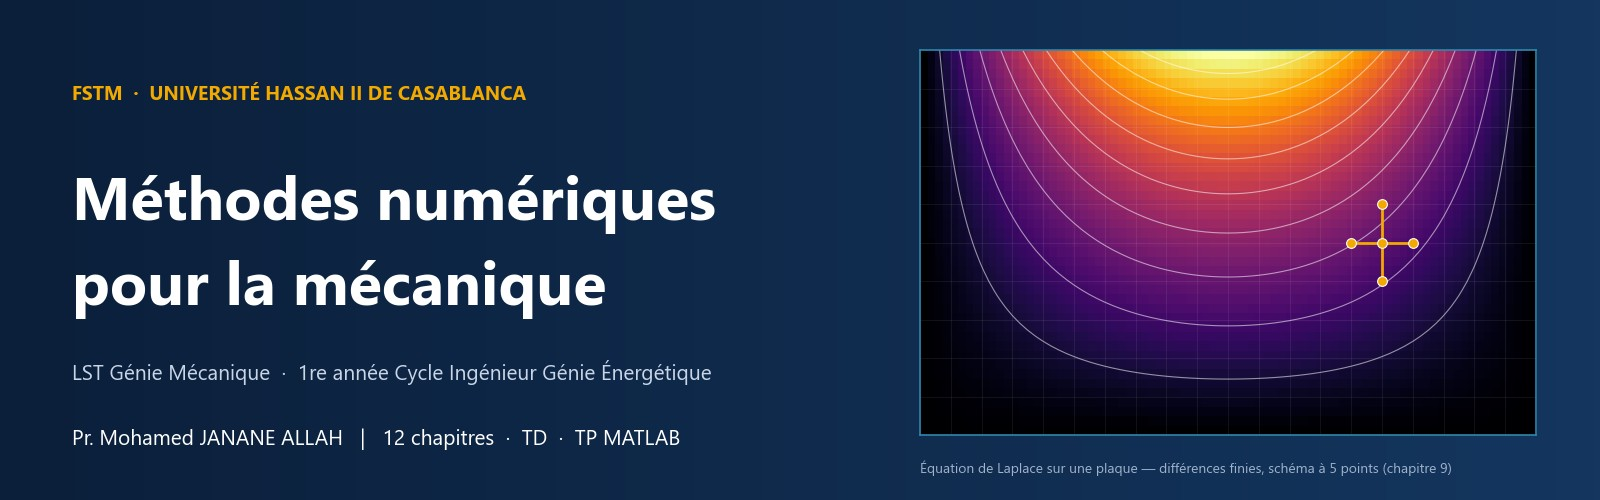
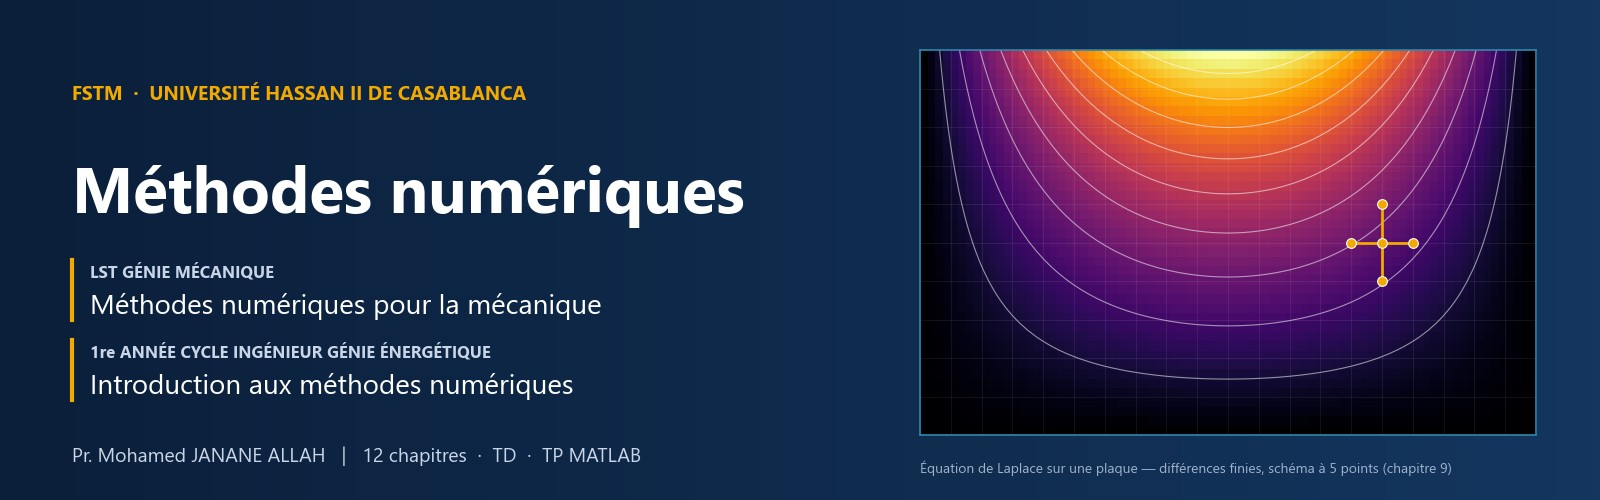
Methodes numeriques : banniere avec les deux intitules (GM et GE)
Titre commun « Methodes numeriques » ; dessous, LST Genie Mecanique :
« Methodes numeriques pour la mecanique » et Cycle d'Ingenieur GE :
« Introduction aux methodes numeriques ». Texte alternatif et fil
d'Ariane mis a jour ; la ligne sous la banniere, redondante, est retiree.

diff --git a/tools/banniere_methodes.py b/tools/banniere_methodes.py
@@ -47,13 +47,16 @@ def banniere():
                 cmap=LinearSegmentedColormap.from_list("fond", [MARINE, MARINE2]))
     fond.axis("off")
 
+    # Titre commun, puis l'intitule du module dans chaque filiere (GM et GE, 16 nov. 2026).
     fig.text(0.045, 0.80, "FSTM  ·  UNIVERSITÉ HASSAN II DE CASABLANCA", color=AMBRE, fontsize=14, fontweight="bold")
-    fig.text(0.045, 0.56, "Méthodes numériques", color="white", fontsize=44, fontweight="bold")
-    fig.text(0.045, 0.39, "pour la mécanique", color="white", fontsize=44, fontweight="bold")
-    fig.text(0.045, 0.24, "LST Génie Mécanique  ·  1re année Cycle Ingénieur Génie Énergétique",
-             color=GRIS, fontsize=15)
-    fig.text(0.045, 0.11, "Pr. Mohamed JANANE ALLAH   |   12 chapitres  ·  TD  ·  TP MATLAB",
-             color="white", fontsize=15)
+    fig.text(0.045, 0.575, "Méthodes numériques", color="white", fontsize=46, fontweight="bold")
+    for yy, filiere, intitule in ((0.445, "LST GÉNIE MÉCANIQUE", "Méthodes numériques pour la mécanique"),
+                                  (0.285, "1re ANNÉE CYCLE INGÉNIEUR GÉNIE ÉNERGÉTIQUE", "Introduction aux méthodes numériques")):
+        fig.add_artist(plt.Line2D([0.045, 0.045], [yy - 0.085, yy + 0.035], color=AMBRE, lw=3, transform=fig.transFigure))
+        fig.text(0.056, yy, filiere, color=GRIS, fontsize=12, fontweight="bold")
+        fig.text(0.056, yy - 0.072, intitule, color="white", fontsize=20)
+    fig.text(0.045, 0.075, "Pr. Mohamed JANANE ALLAH   |   12 chapitres  ·  TD  ·  TP MATLAB",
+             color=GRIS, fontsize=14)
 
     ax = fig.add_axes([0.575, 0.13, 0.385, 0.77])
     ax.imshow(T, origin="lower", extent=[0, 2, 0, 1], cmap="inferno", vmin=0, vmax=100, aspect="auto")

diff --git a/tools/build_page.py b/tools/build_page.py
@@ -300,13 +300,11 @@ apprendre = "<table>\n%s\n</table>" % "\n".join(
     "<tr>%s</tr>" % "".join('<td width="50%%" valign="top">✔ %s</td>' % a.replace("**", "") for a in APPRENDRE[k:k + 2])
     for k in range(0, len(APPRENDRE), 2))
 
-TPL = u"""[⬅ Profil](../README.md) › Enseignement › **Méthodes numériques pour la mécanique**
+TPL = u"""[⬅ Profil](../README.md) › Enseignement › **Méthodes numériques**
 
 <div align="center">
 
-<img src="methodes-numeriques/images/banniere.jpg" alt="Méthodes numériques pour la mécanique — FSTM, Université Hassan II de Casablanca — Pr. Mohamed JANANE ALLAH" width="100%%" />
-
-🔧 **LST Génie Mécanique** : *%(intitule_gm)s* · ⚡ **Cycle d'Ingénieur Génie Énergétique** : *%(intitule_ge)s*
+<img src="methodes-numeriques/images/banniere.jpg" alt="Méthodes numériques — LST Génie Mécanique : %(intitule_gm)s ; 1re année du Cycle d'Ingénieur Génie Énergétique : %(intitule_ge)s — FSTM, Université Hassan II de Casablanca — Pr. Mohamed JANANE ALLAH" width="100%%" />
 
 <br/>
 

diff --git a/cours/licence-genie-mecanique.md b/cours/licence-genie-mecanique.md
@@ -1,10 +1,8 @@
-[⬅ Profil](../README.md) › Enseignement › **Méthodes numériques pour la mécanique**
+[⬅ Profil](../README.md) › Enseignement › **Méthodes numériques**
 
 <div align="center">
 
-<img src="methodes-numeriques/images/banniere.jpg" alt="Méthodes numériques pour la mécanique — FSTM, Université Hassan II de Casablanca — Pr. Mohamed JANANE ALLAH" width="100%" />
-
-🔧 **LST Génie Mécanique** : *Méthodes numériques pour la mécanique* · ⚡ **Cycle d'Ingénieur Génie Énergétique** : *Introduction aux méthodes numériques*
+<img src="methodes-numeriques/images/banniere.jpg" alt="Méthodes numériques — LST Génie Mécanique : Méthodes numériques pour la mécanique ; 1re année du Cycle d'Ingénieur Génie Énergétique : Introduction aux méthodes numériques — FSTM, Université Hassan II de Casablanca — Pr. Mohamed JANANE ALLAH" width="100%" />
 
 <br/>
 
